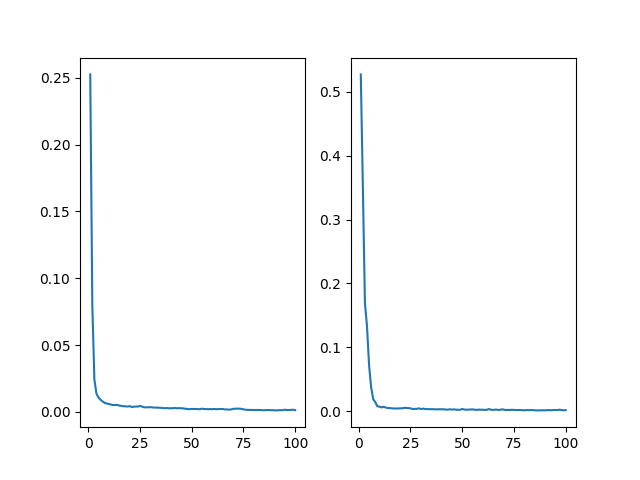
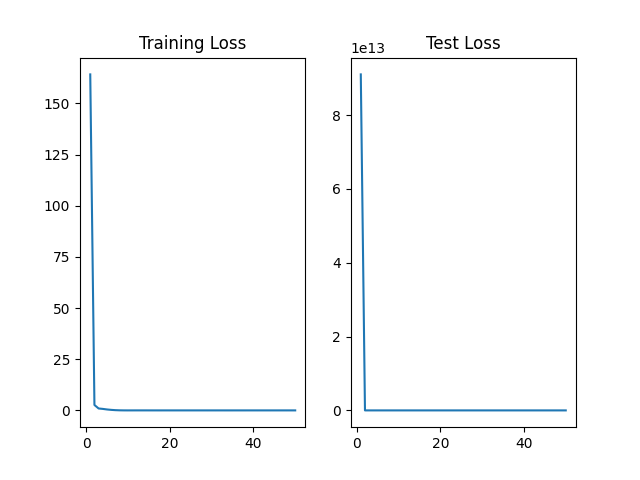
something wrong w/ loss fn

diff --git a/main.py b/main.py
@@ -14,14 +14,15 @@ from model import DenoisingCNN
 from train import train_epoch
 from test import test_epoch
 
+# enter parameters of model training
 def parse_args():
     parser = argparse.ArgumentParser()
 
     parser.add_argument('--noisy_path', type=str, default="./data/noisy_images")
     parser.add_argument('--denoised_path', type=str, default="./data/denoised_images")
-    parser.add_argument('--epochs', type=int, default=100)
+    parser.add_argument('--epochs', type=int, default=50)
     parser.add_argument('--batch_size', type=int, default=32)
-    parser.add_argument('--learning_rate', type=float, default=0.001)
+    parser.add_argument('--learning_rate', type=float, default=1e-1)
     parser.add_argument('--train_test_split', type=float, default=0.9) # we don't have that much data
     parser.add_argument('--num_layers', type=int, default=17)
     parser.add_argument('--visualize', type=bool, default=True)
@@ -38,26 +39,38 @@ def visualize_prediction(device, model, test_dataset, reconstruct_fn, samples=3,
     random_test_pairs = [test_dataset[idx] for idx in random_idxs]
 
     # initialize plot
-    fig, axs = plt.subplots(samples, 3, figsize=(3 * 3, samples * 3))
+    fig, axs = plt.subplots(3, samples, figsize=(samples * 3, 3 * 3))
+
+    # label axes
+    titles = ["Noisy", "Denoised GT", "Denoised Prediction"]
+    for i, ax in enumerate(axs[0]):
+        ax.set_title(titles[i])
 
     # run the prediction and visualize
     for i in range(len(random_test_pairs)):
+        # get input pair
         noisy = random_test_pairs[i][0]
         denoised = random_test_pairs[i][1]
-        prediction = model(noisy.unsqueeze(0).to(device)).squeeze(0).cpu().detach()
+
+        # run prediction
+        model.eval()
+        noise_prediction = model(noisy.unsqueeze(0).to(device)).squeeze(0).cpu().detach()
+        # denoised_prediction = noisy - noise_prediction
+        denoised_prediction = noise_prediction
 
         # reconstruct each image
         noisy_PIL = reconstruct_fn(noisy)
         denoised_PIL = reconstruct_fn(denoised)
-        prediction_PIL = reconstruct_fn(prediction)
+        prediction_PIL = reconstruct_fn(denoised_prediction)
 
         # plot
         axs[i, 0].imshow(noisy_PIL, interpolation='nearest', cmap='gray', aspect='equal')
         axs[i, 1].imshow(denoised_PIL, interpolation='nearest', cmap='gray', aspect='equal')
         axs[i, 2].imshow(prediction_PIL, interpolation='nearest', cmap='gray', aspect='equal')
 
+    # hide ticks for cleaner images
     for ax in axs.flat:
-        ax.axis("off")  # hide ticks for cleaner images
+        ax.axis("off") 
 
     plt.savefig(out_path)
 
@@ -65,6 +78,10 @@ def visualize_prediction(device, model, test_dataset, reconstruct_fn, samples=3,
 def visualize_loss(losses, out_path="./losses.png"):
     # create plot
     fig, axs = plt.subplots(1, 2)
+
+    # label column
+    axs[0].set_title("Training Loss")
+    axs[1].set_title("Test Loss")
 
     # plot both training and test losses
     x = [i for i in range(1, len(losses) + 1)]
@@ -74,8 +91,6 @@ def visualize_loss(losses, out_path="./losses.png"):
     axs[1].plot(x, test_losses)
 
     plt.savefig(out_path)
-
-
 
 # specify 
 def main():
@@ -123,8 +138,8 @@ def main():
             f"TESTING LOSS: {test_loss:.5f} "
         )
 
-        # visualize losses
-        visualize_loss(epoch_losses)
+    # visualize losses
+    visualize_loss(epoch_losses)
 
     # visualize 3 predictions with trained model
     visualize_prediction(device, model, test_dataset, dataset.reconstruct_image)

diff --git a/data.py b/data.py
@@ -19,6 +19,7 @@ class OCRDataset(Dataset):
         # initialize base attributes
         self.noisy_path = noisy_path
         self.denoised_path = denoised_path
+        self.image_size = 128
 
         # get each item. sort them so the pairs are always aligned
         raw_noisy_images = sorted([os.path.join(self.noisy_path, file) for file in os.listdir(self.noisy_path)])
@@ -42,8 +43,8 @@ class OCRDataset(Dataset):
             noisy = Image.open(raw_noisy_images[i])
             denoised = Image.open(raw_denoised_images[i])
 
-            # set original image size
-            if i == 0: self.original_size = noisy.size
+            # # set original image size
+            # if i == 0: self.original_size = noisy.size
 
             # preprocess image
             self.noisy_images.append(self.transform(noisy))
@@ -59,7 +60,7 @@ class OCRDataset(Dataset):
     def reconstruct_image(self, tensor):
         # resize back to the original size
         self.un_transform = transforms.Compose([
-            transforms.Resize((self.original_size[1], self.original_size[0])),
+            transforms.Resize((self.image_size, self.image_size)),
             transforms.ToPILImage()
         ])
 

diff --git a/train.py b/train.py
@@ -16,17 +16,17 @@ def train_epoch(device, model, dataloader, optimizer, criterion):
     for batch_no, (noisy, denoised) in enumerate(dataloader):
         # send inputs to GPU for faster computation
         noisy, denoised = noisy.to(device), denoised.to(device)
+        batch_size = noisy.size()[0]
 
         # clear the gradients from the last batch
         optimizer.zero_grad()
 
         # do the forward pass
-        pred_denoised = model(noisy)
+        pred = model(noisy)
 
         # calculate and accumulate the loss (https://arxiv.org/pdf/1608.03981)
-        gt_noise = denoised - noisy
-        pred_noise = pred_denoised - noisy
-        loss = criterion(gt_noise, pred_noise)
+        # gt_noise = noisy - denoised
+        loss = criterion(denoised, pred)
         total_loss += loss 
 
         # compute all the gradients for back propagation

diff --git a/test.py b/test.py
@@ -18,14 +18,14 @@ def test_epoch(device, model, dataloader, criterion):
         for batch_no, (noisy, denoised) in enumerate(dataloader):
             # send tensors to GPU
             noisy, denoised = noisy.to(device), denoised.to(device)
+            batch_size = noisy.size()[0]
 
             # get model prediction
-            pred_denoised = model(noisy)
+            pred = model(noisy)
 
             # calculate and accumulate the loss (https://arxiv.org/pdf/1608.03981)
-            gt_noise = denoised - noisy
-            pred_noise = pred_denoised - noisy
-            loss = criterion(gt_noise, pred_noise)
+            # gt_noise = noisy - denoised
+            loss = criterion(denoised, pred)
             total_loss += loss 
 
     # normalize the loss with the number of batches
